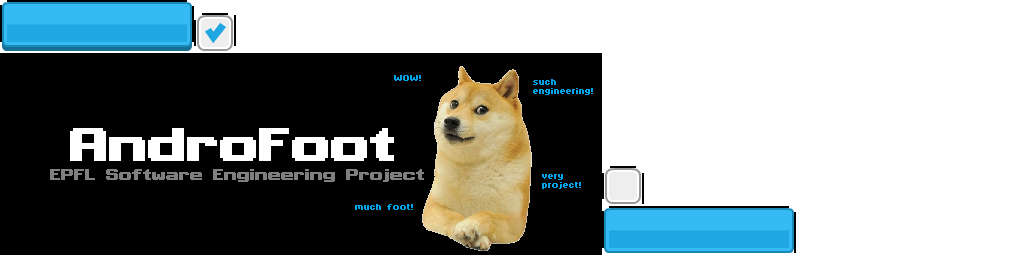
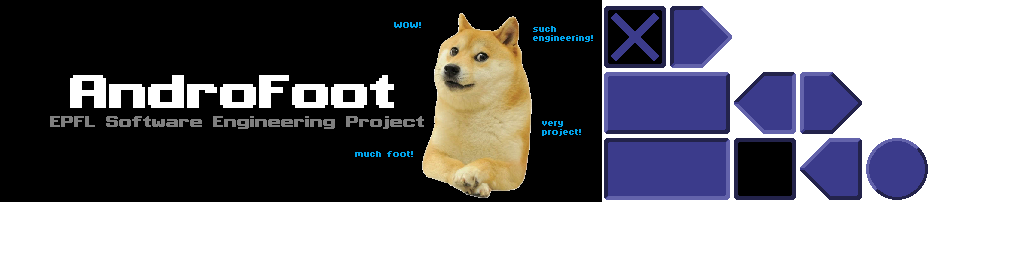
improved design
new handmade widgets

diff --git a/core/src/ch/epfl/sweng/androfoot/gui/GuiManager.java b/core/src/ch/epfl/sweng/androfoot/gui/GuiManager.java
@@ -50,19 +50,19 @@ public class GuiManager {
 		
 		// Main Menu
 		mMainMenuWidgets[0] = new GuiImage(blueSkin, "title", 0.8f, 0.3f, true, DEFAULT_PADDING, 1);
-		mMainMenuWidgets[1] = new GuiButton(blueSkin, true, DEFAULT_PADDING,
+		mMainMenuWidgets[1] = new GuiButton(blueSkin, "default", true, DEFAULT_PADDING,
 				"Local Play", BUTTON_X_SIZE_PER_LETTER, BUTTON_Y_SIZE, 1,
 				GuiCommand.goToLocalPlay);
-		mMainMenuWidgets[2] = new GuiButton(blueSkin, true, DEFAULT_PADDING,
+		mMainMenuWidgets[2] = new GuiButton(blueSkin, "default", true, DEFAULT_PADDING,
 				"Network Play", BUTTON_X_SIZE_PER_LETTER, BUTTON_Y_SIZE, 1,
 				GuiCommand.goToNetworkPlay);
-		mMainMenuWidgets[3] = new GuiButton(blueSkin, true, DEFAULT_PADDING,
+		mMainMenuWidgets[3] = new GuiButton(blueSkin, "default", true, DEFAULT_PADDING,
 				"Settings", BUTTON_X_SIZE_PER_LETTER, BUTTON_Y_SIZE, 1,
 				GuiCommand.goToSettings);
-		mMainMenuWidgets[4] = new GuiButton(blueSkin, true, DEFAULT_PADDING,
+		mMainMenuWidgets[4] = new GuiButton(blueSkin, "default", true, DEFAULT_PADDING,
 				"Credits", BUTTON_X_SIZE_PER_LETTER, BUTTON_Y_SIZE, 1,
 				GuiCommand.goToCredits);
-		mMainMenuWidgets[5] = new GuiButton(blueSkin, true, DEFAULT_PADDING,
+		mMainMenuWidgets[5] = new GuiButton(blueSkin, "default", true, DEFAULT_PADDING,
 				"Quit", BUTTON_X_SIZE_PER_LETTER, BUTTON_Y_SIZE, 1,
 				GuiCommand.exit);
 		
@@ -71,35 +71,35 @@ public class GuiManager {
 				"Local Play");
 		mLocalPlayWidgets[1] = new GuiLabel(blueSkin, "default", false, DEFAULT_PADDING, 1,
 				"Score limit: ");
-		mLocalPlayWidgets[2] = new GuiButton(blueSkin, false, DEFAULT_PADDING,
+		mLocalPlayWidgets[2] = new GuiButton(blueSkin, "leftarrow", false, DEFAULT_PADDING,
 				" - ", BUTTON_X_SIZE_PER_LETTER, BUTTON_Y_SIZE, 1,
 				GuiCommand.subScoreLimit);
 		mScoreLimitCounter = new GuiLabel(blueSkin, "default", false, DEFAULT_PADDING, 1,
 				Integer.toString(Configuration.getInstance().getScoreLimit()));
 		mLocalPlayWidgets[3] = mScoreLimitCounter;
-		mLocalPlayWidgets[4] = new GuiButton(blueSkin, true, DEFAULT_PADDING,
+		mLocalPlayWidgets[4] = new GuiButton(blueSkin, "rightarrow", true, DEFAULT_PADDING,
 				" + ", BUTTON_X_SIZE_PER_LETTER, BUTTON_Y_SIZE, 1,
 				GuiCommand.addScoreLimit);
-		mLocalPlayWidgets[5] = new GuiButton(blueSkin, true, DEFAULT_PADDING,
+		mLocalPlayWidgets[5] = new GuiButton(blueSkin, "default", true, DEFAULT_PADDING,
 				"Player vs Player", BUTTON_X_SIZE_PER_LETTER, BUTTON_Y_SIZE, 4,
 				GuiCommand.startHuman);
-		mLocalPlayWidgets[6] = new GuiButton(blueSkin, true, DEFAULT_PADDING,
+		mLocalPlayWidgets[6] = new GuiButton(blueSkin, "default", true, DEFAULT_PADDING,
 				"Player vs AI", BUTTON_X_SIZE_PER_LETTER, BUTTON_Y_SIZE, 4,
 				GuiCommand.startAI);
-		mLocalPlayWidgets[7] = new GuiButton(blueSkin, true, DEFAULT_PADDING,
+		mLocalPlayWidgets[7] = new GuiButton(blueSkin, "default", true, DEFAULT_PADDING,
 				"Back", BUTTON_X_SIZE_PER_LETTER, BUTTON_Y_SIZE, 4,
 				GuiCommand.goToMainMenu);
 		
 		// Network Play
 		mNetworkPlayWidgets[0] = new GuiLabel(blueSkin, "default", true, TITLE_PADDING, 1,
 				"Network Play");
-				mNetworkPlayWidgets[1] = new GuiButton(blueSkin, true, DEFAULT_PADDING,
+				mNetworkPlayWidgets[1] = new GuiButton(blueSkin, "default", true, DEFAULT_PADDING,
 				"Host Game", BUTTON_X_SIZE_PER_LETTER, BUTTON_Y_SIZE, 2,
 				GuiCommand.goToHostNetwork);
-		mNetworkPlayWidgets[2] = new GuiButton(blueSkin, true, DEFAULT_PADDING,
+		mNetworkPlayWidgets[2] = new GuiButton(blueSkin, "default", true, DEFAULT_PADDING,
 				"Join Game", BUTTON_X_SIZE_PER_LETTER, BUTTON_Y_SIZE, 2,
 				GuiCommand.goToClientNetwork);
-		mNetworkPlayWidgets[3] = new GuiButton(blueSkin, true, DEFAULT_PADDING,
+		mNetworkPlayWidgets[3] = new GuiButton(blueSkin, "default", true, DEFAULT_PADDING,
 				"Back", BUTTON_X_SIZE_PER_LETTER, BUTTON_Y_SIZE, 1,
 				GuiCommand.goToMainMenu);
 		
@@ -122,7 +122,7 @@ public class GuiManager {
 		mSettingsWidgets[5] = new GuiLabel(blueSkin, "default", false, DEFAULT_PADDING, 1,
 				"Sensibility: ");
 		mSettingsWidgets[6] = mSensibilityCounter;
-		mSettingsWidgets[7] = new GuiButton(blueSkin, true, DEFAULT_PADDING,
+		mSettingsWidgets[7] = new GuiButton(blueSkin, "default", true, DEFAULT_PADDING,
 				"Back", BUTTON_X_SIZE_PER_LETTER, BUTTON_Y_SIZE, 2,
 				GuiCommand.goToMainMenu);
 		
@@ -132,7 +132,7 @@ public class GuiManager {
 		mCreditsWidgets[1] = new GuiLabel(blueSkin, "aux", true, TITLE_PADDING, 1,
 				"Guillaume Leclerc\nMathvey Khokhlov\nPedro Caldeira\nSidney Barthe\n"
 				+ "Aurelien Farine\nGaylor Bosson\nAdam Haefliger");
-		mCreditsWidgets[2] = new GuiButton(blueSkin, true, DEFAULT_PADDING,
+		mCreditsWidgets[2] = new GuiButton(blueSkin, "default", true, DEFAULT_PADDING,
 				"Back", BUTTON_X_SIZE_PER_LETTER, BUTTON_Y_SIZE, 1,
 				GuiCommand.goToMainMenu);
 		
@@ -142,10 +142,10 @@ public class GuiManager {
 		mFinalScore = new GuiLabel(blueSkin, "default", true, DEFAULT_PADDING,
 				1, "0 - 0");
 		mGameOverWidgets[1] = mFinalScore;
-		mGameOverWidgets[2] = new GuiButton(blueSkin, true, DEFAULT_PADDING,
+		mGameOverWidgets[2] = new GuiButton(blueSkin, "default", true, DEFAULT_PADDING,
 				"Play again", BUTTON_X_SIZE_PER_LETTER, BUTTON_Y_SIZE, 1,
 				GuiCommand.goToGame);
-		mGameOverWidgets[3] = new GuiButton(blueSkin, true, DEFAULT_PADDING,
+		mGameOverWidgets[3] = new GuiButton(blueSkin, "default", true, DEFAULT_PADDING,
 				"Back to main menu", BUTTON_X_SIZE_PER_LETTER, BUTTON_Y_SIZE,
 				1, GuiCommand.goToMainMenu);
 	}

diff --git a/core/src/ch/epfl/sweng/androfoot/gui/GuiButton.java b/core/src/ch/epfl/sweng/androfoot/gui/GuiButton.java
@@ -22,6 +22,7 @@ public class GuiButton extends GuiWidget {
 	private int mColSpan;
 	
 	public GuiButton(Skin skin,
+					 String style,
 					 boolean lineBreak,
 					 float[] padding,
 					 String text,
@@ -33,7 +34,7 @@ public class GuiButton extends GuiWidget {
 		mNewLine = lineBreak;
 		mPadding = padding;
 		mText = text;
-		mButton = new TextButton(mText, skin);
+		mButton = new TextButton(mText, skin, style);
 		mXSizePerLetter = xSizePerLetter;
 		mYSize = ySize;
 		mCommand = command;

diff --git a/core/src/ch/epfl/sweng/androfoot/gui/GuiSlider.java b/core/src/ch/epfl/sweng/androfoot/gui/GuiSlider.java
@@ -47,6 +47,10 @@ public class GuiSlider extends GuiWidget {
 	}
 
 	public void show(Table table, int width, int height) {
+		mSlider.getStyle().knob.setMinHeight(mYSize * height);
+		mSlider.getStyle().knob.setMinWidth(mYSize * height);
+		mSlider.getStyle().background.setMinHeight((mYSize * height) / 2);
+		
 		table.add(mSlider)
 		.size(mXSize * width, mYSize * height)
 		.colspan(mColSpan)
